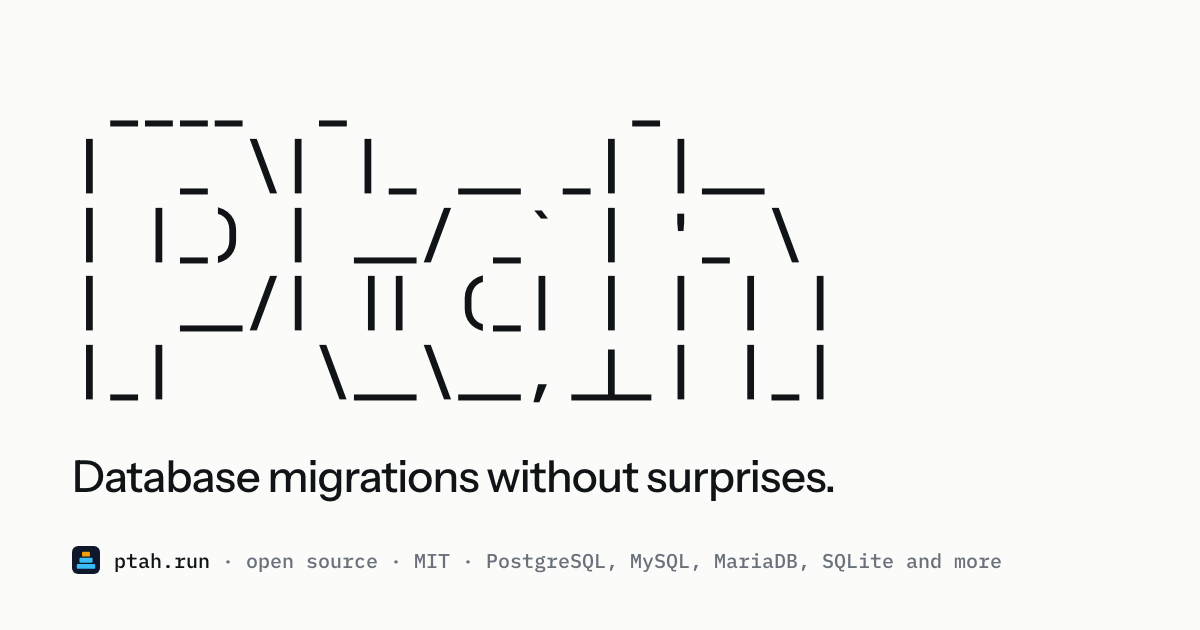
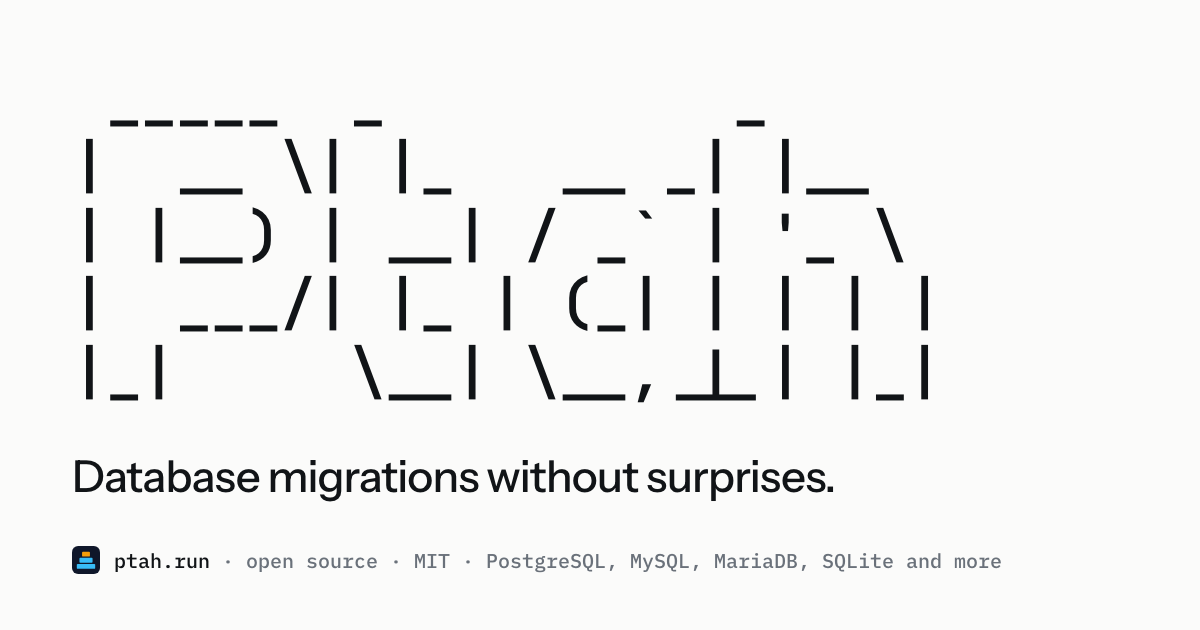
Use the CLI's ASCII wordmark
The hero banner and the social image now carry the exact wordmark the
binaries print on their entry screen (cmd/internal/banner/banner.go in
stokaro/ptah); the design handoff used an older, narrower variant.

diff --git a/index.html b/index.html
@@ -70,11 +70,11 @@
   <section class="hero" aria-labelledby="hero-title">
     <div class="wrap">
       <div class="hero-copy">
-        <pre class="banner" role="img" aria-label="Ptah"> ____  _        _
-|  _ \| |_ __ _| |__
-| |_) | __/ _` | '_ \
-|  __/| || (_| | | | |
-|_|    \__\__,_|_| |_|</pre>
+        <pre class="banner" role="img" aria-label="Ptah"> _____  _          _
+|  __ \| |_   __ _| |__
+| |__) | __| / _` | '_ \
+|  ___/| |_ | (_| | | | |
+|_|     \__| \__,_|_| |_|</pre>
         <h1 id="hero-title">Database migrations without surprises.</h1>
         <p class="lede">Ptah compares the schema you want with a live database and either writes versioned migrations or applies an approved plan. It also migrates persistent inference state, such as re-embedding a pgvector table. PostgreSQL, MySQL, MariaDB, SQLite and more. Open source, MIT, no toolchain to install.</p>
         <div class="install">

diff --git a/README.md b/README.md
@@ -61,6 +61,10 @@ and rewrites every element marked `data-version` or `data-version-bare`; when
 the request fails, the HTML value stands. Bump the HTML value when cutting a
 release so the page is right without JavaScript too.
 
+The ASCII wordmark in the hero and in `og.png` is the one the binaries print
+on their entry screen: copy it verbatim from `cmd/internal/banner/banner.go` in
+`stokaro/ptah` (the design handoff carried an older, narrower variant).
+
 Documentation links point at the `edge` build of the docs site
 (`https://docs.ptah.run/edge/...`), the same choice the Ptah README makes: it
 always exists and always documents the current command tree, and the docs site
